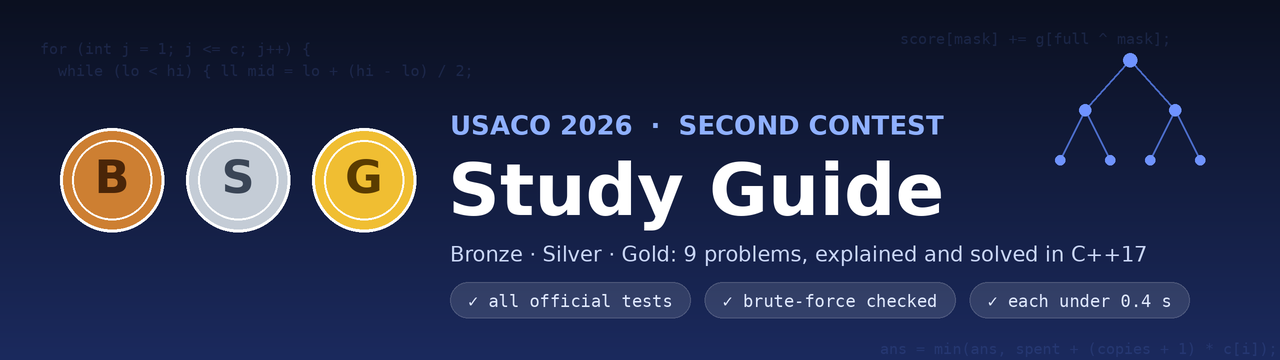
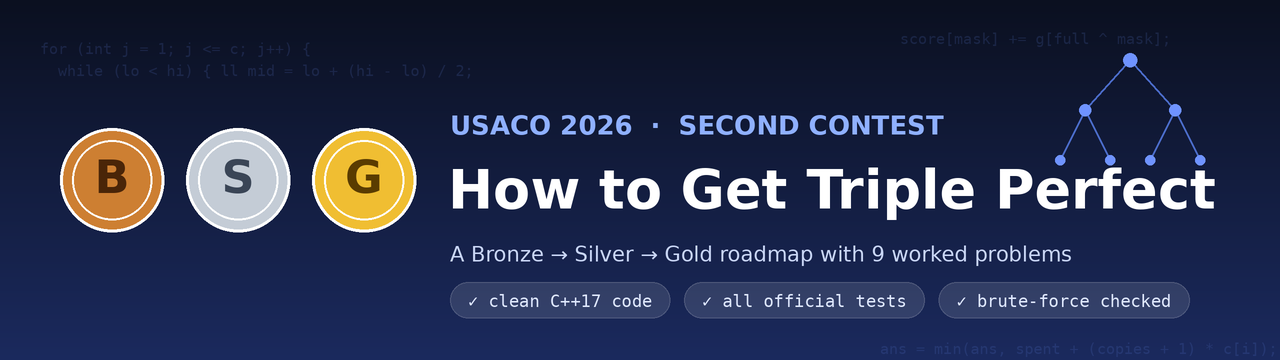
updated

Changed region(s): [[0.3438, 0.4278, 0.9688, 0.6417], [0.3438, 0.6722, 0.9062, 0.7333], [0.375, 0.7639, 0.9375, 0.8861]]

diff --git a/README.md b/README.md
@@ -1,10 +1,10 @@
 <div align="center">
 
-<img src="assets/banner.png" alt="USACO 2026 Second Contest Study Guide: Bronze, Silver, Gold" width="100%">
+<img src="assets/banner.png" alt="How to Get Triple Perfect on USACO: Bronze, Silver, Gold roadmap" width="100%">
 
-# USACO 2026 Second Contest: Study Guide
+# How to Get a Triple Perfect on USACO
 
-**Nine problems. Clear explanations. Clean C++17 solutions. Every one checked against the official test data.**
+**A Bronze → Silver → Gold roadmap, worked through on the USACO 2026 Second Contest: nine problems, clear explanations, clean C++17 solutions, all checked against the official test data.**
 
 ![C++17](https://img.shields.io/badge/C%2B%2B-17-00599C?logo=cplusplus&logoColor=white)
 ![Problems](https://img.shields.io/badge/problems-9-blueviolet)
@@ -12,7 +12,7 @@
 ![Stress tested](https://img.shields.io/badge/brute--force-stress%20tested-orange)
 ![License](https://img.shields.io/badge/license-MIT-lightgrey)
 
-[🥉 Bronze](bronze/) · [🥈 Silver](silver/) · [🥇 Gold](gold/) · [🧪 How it's verified](#-how-its-verified) · [🚀 Quick start](#-quick-start)
+[🎯 What is it?](#-what-is-a-triple-perfect) · [🗺 Roadmap](#-the-roadmap) · [🥉 Bronze](bronze/) · [🥈 Silver](silver/) · [🥇 Gold](gold/) · [🧪 How it's verified](#-how-its-verified) · [🚀 Quick start](#-quick-start)
 
 </div>
 
@@ -20,9 +20,32 @@
 
 ## Why this repo?
 
-Most contest repos are a pile of code. This one is a **study guide**: for every problem you get the *one key insight* that unlocks it, the reasoning behind the algorithm, the pitfalls that cost points, and a short, commented solution you can read in a few minutes. Solutions are written for clarity first and verified for correctness, so you can trust what you learn from them.
+Most contest repos are a pile of code. This one is a **guide to the goal**: it walks through a full Bronze, Silver and Gold set so you can see what "perfect in every division" actually demands. For every problem you get the *one key insight* that unlocks it, the reasoning behind the algorithm, the pitfalls that cost points, and a short, commented solution you can read in a few minutes. Solutions are written for clarity first and verified for correctness, so you can trust what you learn from them.
 
 **Good for:** students moving Bronze → Silver → Gold, coaches looking for worked examples, and anyone who wants to see *how* to test a solution properly.
+
+## 🎯 What is a triple perfect?
+
+"Triple perfect" is community slang, not an official USACO title. It means scoring **1000 / 1000 in Bronze, Silver and Gold**, all three divisions, by solving every problem in each. USACO lets a strong contestant move up **within the same contest**: once you reach the promotion score in a division you can accept the promotion and start the next division's problems, so a single contest can take you from Bronze through Gold if you keep scoring high.
+
+It is hard because each division needs a different skill:
+
+| Division | What it rewards |
+|----------|-----------------|
+| 🥉 Bronze | Clean thinking, brute force done well, spotting identities (Bronze 1), bitmasks and greedy (Bronze 2-3) |
+| 🥈 Silver | Reducing a story to a precise claim, amortised analysis, two pointers (Silver 1-3) |
+| 🥇 Gold | Binary search with convexity, automata-style reasoning, graph structure (Gold 1-3) |
+
+## 🗺 The roadmap
+
+1. **Master the fundamentals until they are automatic.** Sorting, prefix sums, BFS/DFS, binary search, bitmasks. Bronze and Silver points are lost to bugs far more often than to missing ideas.
+2. **Practise on past contests, timed.** Do a full division in the real time limit, then read the write-ups here and the official analysis.
+3. **Learn to test.** Write a brute force and a random generator for every problem ([`tools/stress.py`](tools/stress.py) shows how). Most wrong answers on hard problems are caught this way in minutes.
+4. **Grab partial credit deliberately.** Every problem has subtasks; a correct slower solution beats an unfinished perfect one.
+5. **Think about overflow and edge cases before you submit.** Gold 1 needs 128-bit arithmetic; Gold 3 needs iterative traversals; Silver 1 has a tiny-circle edge case.
+6. **Review every problem you miss.** Write down the *one insight* you lacked. The write-ups in this repo use exactly that format.
+
+> **Play by the rules.** USACO requires you to compete alone, use only language documentation, and not use AI tools, prewritten code or templates, or more than one account. A score only means something if it is earned this way, and violations can lead to disqualification. Use this repo to **learn before or after** a contest, never during one.
 
 ## 📚 The problems
 
@@ -128,6 +151,6 @@ Found a bug, a clearer explanation, or an alternative approach? Issues and pull 
 
 <div align="center">
 
-If this guide helped you, a ⭐ helps other students find it.
+If this roadmap helped you, a ⭐ helps other students find it.
 
 </div>
